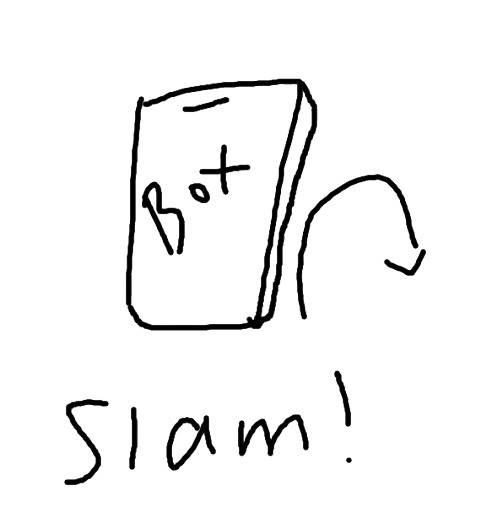
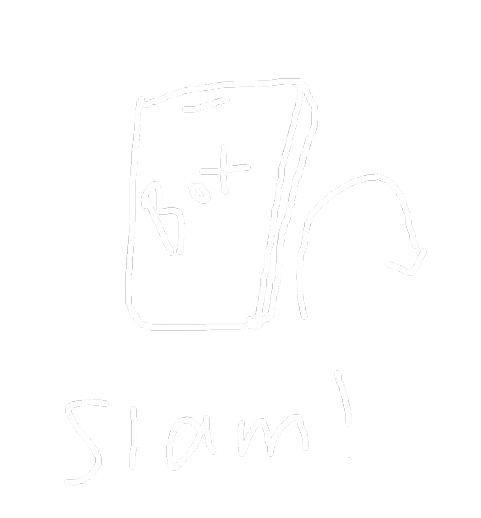
clientside assets loading

diff --git a/app/controller/page.tsx b/app/controller/page.tsx
@@ -178,7 +178,6 @@ export default function Game({
         players[p.id] = { x: p.x, y: p.y, dx: p.dx, dy: p.dy, lastUpdate: now };
       }
 
-      // Drop anyone the server no longer reports (disconnected players).
       for (const id of Object.keys(players)) {
         if (!liveIds.has(id)) delete players[id];
       }
@@ -192,8 +191,6 @@ export default function Game({
       keys[e.key.toLowerCase()] = false;
     }
 
-    // Drive the on-screen joystick (base + knob) directly via refs instead of
-    // React state, so dragging stays smooth and doesn't trigger re-renders.
     function showJoystick(x: number, y: number) {
       const base = joystickBaseRef.current;
       const knob = joystickKnobRef.current;
@@ -454,6 +451,8 @@ export default function Game({
         dy /= len;
       }
 
+      // Send our input to the server at a throttled rate (the server owns
+      // position integration in its own tick loop, mirrors Controller.tsx).
       if (now - lastBroadcast >= BROADCAST_INTERVAL_MS) {
         socket.emit("input", { dx, dy });
         lastBroadcast = now;
@@ -474,6 +473,9 @@ export default function Game({
 
     requestAnimationFrame(loop);
 
+    // Periodically push a snapshot of the live sensor/game values into
+    // React state so the debug overlay can render them without forcing
+    // a re-render on every animation frame.
     const debugInterval = setInterval(() => {
       setDebugData({
         orientation: debugRef.current.orientation ?? null,
@@ -527,6 +529,112 @@ export default function Game({
           touchAction: "none",
           WebkitTouchCallout: "none",
           WebkitTapHighlightColor: "transparent",
+        }}
+      />
+
+      <div
+        ref={joystickBaseRef}
+        style={{
+          position: "fixed",
+          top: 0,
+          left: 0,
+          width: 140,
+          height: 140,
+          borderRadius: "50%",
+          background: "rgba(255,255,255,0.08)",
+          border: "2px solid rgba(255,255,255,0.2)",
+          transform: "translate(-50%, -50%)",
+          pointerEvents: "none",
+          opacity: 0,
+          transition: "opacity 0.12s ease-out",
+          zIndex: 500,
+        }}
+      />
+      <div
+        ref={joystickKnobRef}
+        style={{
+          position: "fixed",
+          top: 0,
+          left: 0,
+          width: 60,
+          height: 60,
+          borderRadius: "50%",
+          background: "white",
+          transform: "translate(-50%, -50%)",
+          pointerEvents: "none",
+          opacity: 0,
+          transition: "opacity 0.12s ease-out",
+          zIndex: 501,
+        }}
+      />
+
+      {/* HUD: username + gold */}
+      <div
+        style={{
+          position: "fixed",
+          top: 16,
+          left: 16,
+          zIndex: 900,
+          padding: "8px 14px",
+          background: "rgba(24, 24, 24, 0.75)",
+          border: "1px solid rgba(255,255,255,0.15)",
+          borderRadius: 8,
+          color: "#e2e8f0",
+          fontFamily: "'JetBrains Mono', 'Courier New', monospace",
+          fontSize: 13,
+        }}
+      >
+        <div style={{ fontWeight: 600 }}>{playerName || "Player"}</div>
+        <div
+          style={{
+            display: "flex",
+            alignItems: "center",
+            gap: 6,
+            color: "#f6e05e",
+            marginTop: 2,
+          }}
+        >
+          <img
+            src="/assets/ui/coin-removebg-preview.png"
+            alt="Coin"
+            width={16}
+            height={16}
+            style={{ display: "block" }}
+          />
+          <span>0</span>
+        </div>
+      </div>
+
+      <img
+        src="/assets/ui/instruction_box-removebg-preview.png"
+        alt="Shield Instructions"
+        style={{
+          position: "fixed",
+          top: 16,
+          right: 16,
+          width: 120,
+          height: 120,
+          objectFit: "cover",
+          borderRadius: 8,
+          border: "2px dashed rgba(255,255,255,0.3)",
+          background: "rgba(255,255,255,0.05)",
+          zIndex: 900,
+        }}
+      />
+      <img
+        src="/assets/ui/instruction_attack-removebg-preview.png"
+        alt="Attack Instructinos"
+        style={{
+          position: "fixed",
+          top: 144,
+          right: 16,
+          width: 120,
+          height: 120,
+          objectFit: "cover",
+          borderRadius: 8,
+          border: "2px dashed rgba(255,255,255,0.3)",
+          background: "rgba(255,255,255,0.05)",
+          zIndex: 900,
         }}
       />
 

diff --git a/app/layout.tsx b/app/layout.tsx
@@ -1,5 +1,4 @@
 import type { Metadata } from "next";
-import "./globals.css";
 
 export const metadata: Metadata = {
   title: "Cats vs Sharks",